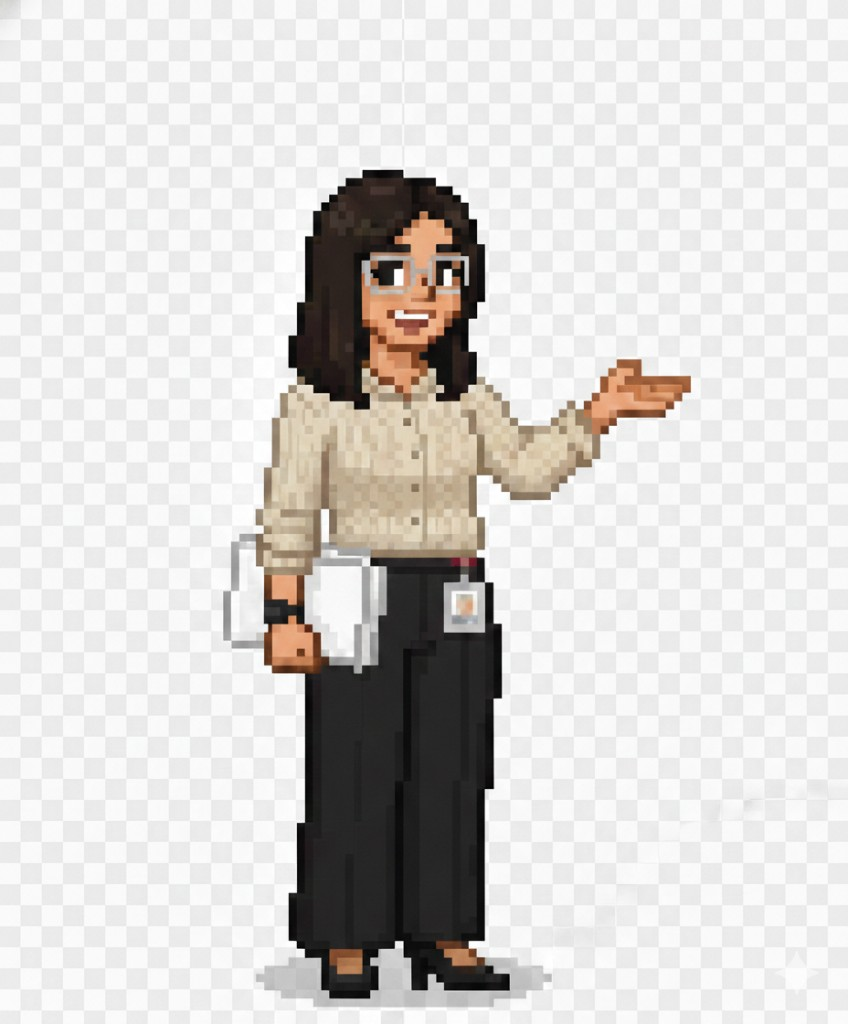
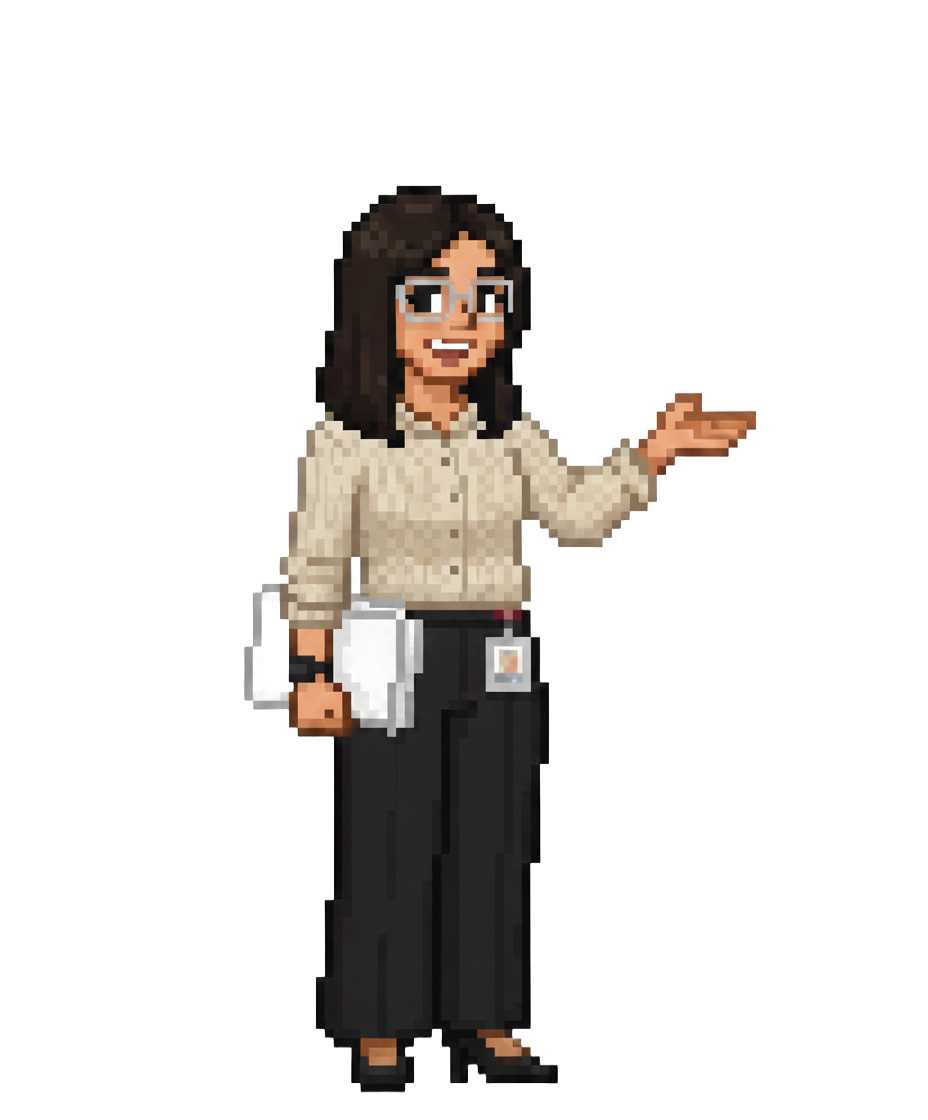
up

diff --git a/styles.css b/styles.css
@@ -103,7 +103,7 @@ img {
 .hero {
   display: grid;
   grid-template-columns: minmax(0, 1.2fr) minmax(0, 0.8fr);
-  gap: 48px;
+  gap: 56px;
   align-items: start;
 }
 
@@ -208,14 +208,14 @@ img {
 .hero-figure {
   display: grid;
   place-items: center;
-  padding: 8px;
+  padding: 0;
   justify-self: end;
   align-self: start;
-  margin-top: 8px;
+  margin-top: 4px;
 }
 
 .hero-figure img {
-  width: min(520px, 92%);
+  width: min(480px, 88%);
   height: auto;
 }
 
